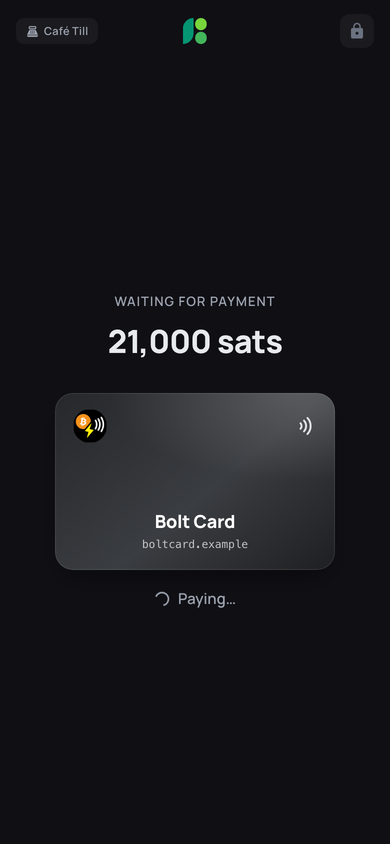
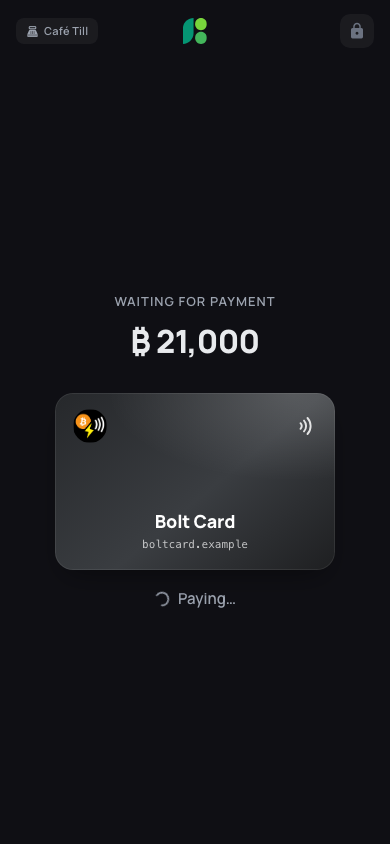
docs(kiosk): screenshots of a card that never pays
The kiosk gallery gets the screen a minute after a card's service said OK
without paying. "Paying" is taken again, in the current amount format.

Changed region(s): [[0.2769, 0.3697, 0.7385, 0.4313], [0.2462, 0.4929, 0.2769, 0.5237]]

diff --git a/docs/BOLT_CARD.md b/docs/BOLT_CARD.md
@@ -10,9 +10,9 @@ The card shows up as an object the moment it touches the phone, and everything a
 |---|---|---|---|---|
 | ![Reading](images/boltcard/wallet-reading.png) | ![Slide](images/boltcard/wallet-slide.png) | ![PIN](images/boltcard/wallet-pin.png) | ![Last try](images/boltcard/wallet-last-try.png) | ![Locked](images/boltcard/wallet-locked.png) |
 
-| Kiosk | | | | |
-|---|---|---|---|---|
-| ![Pay](images/boltcard/kiosk-pay.png) | ![PIN](images/boltcard/kiosk-pin.png) | ![Paying](images/boltcard/kiosk-paying.png) | ![Declined](images/boltcard/kiosk-declined.png) | ![Parked](images/boltcard/kiosk-parked.png) |
+| Kiosk | | | | | |
+|---|---|---|---|---|---|
+| ![Pay](images/boltcard/kiosk-pay.png) | ![PIN](images/boltcard/kiosk-pin.png) | ![Paying](images/boltcard/kiosk-paying.png) | ![Declined](images/boltcard/kiosk-declined.png) | ![No payment came from the card](images/boltcard/kiosk-not-paid.png) | ![Parked](images/boltcard/kiosk-parked.png) |
 
 Before: the PIN took over the whole screen, the kiosk went back to its QR after the PIN, and a locked card was an error dialog.
 
